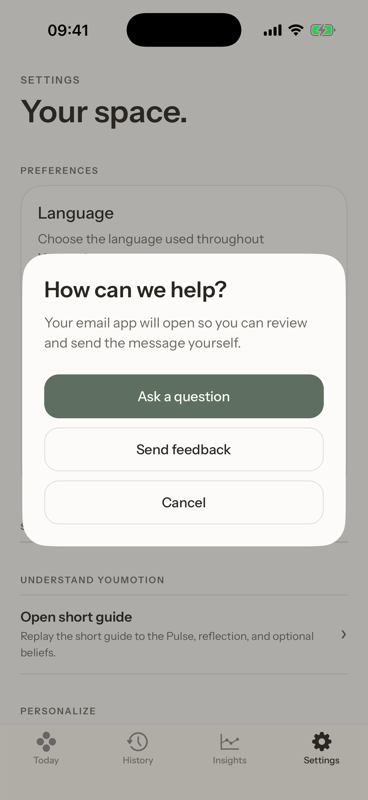
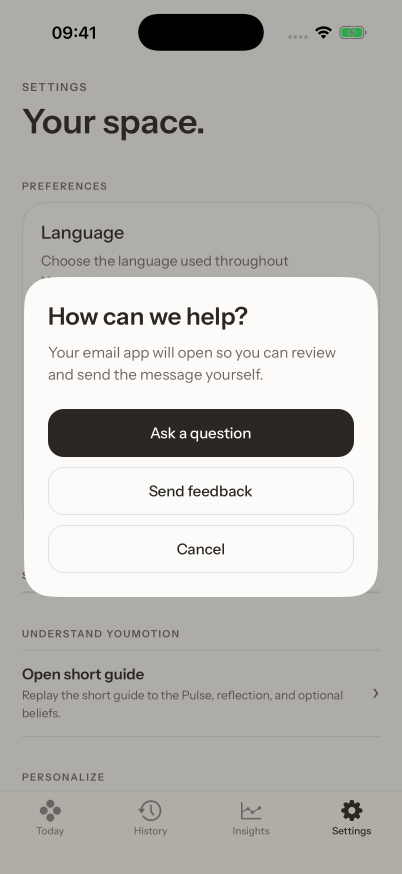
fix: unify primary action colors

diff --git a/src/features/reminders/ui/leitsatz-reminder-screen.tsx b/src/features/reminders/ui/leitsatz-reminder-screen.tsx
@@ -29,7 +29,7 @@ import {
   activeCustomBeliefStatements,
   beliefStatementForId,
 } from '@/features/check-in/domain/belief-statement';
-import { palette, type } from '@/features/check-in/ui/theme';
+import { actionColors, palette, type } from '@/features/check-in/ui/theme';
 import { useAppLocale } from '@/localization/app-locale-provider';
 import { formatWeekday } from '@/localization/date-copy';
 import { useAppNavigationActor } from '@/navigation/app-navigation.provider';
@@ -636,10 +636,10 @@ const styles = StyleSheet.create({
   statementCard: { minHeight: 150, justifyContent: 'center', backgroundColor: palette.paperRaised, borderColor: palette.hairline, borderWidth: 1, borderRadius: 24, borderCurve: 'continuous', padding: 22 },
   cardEyebrow: { fontFamily: type.semibold, color: palette.inkMuted, fontSize: 10, letterSpacing: 1.2, marginBottom: 14 },
   statement: { fontFamily: type.medium, color: palette.ink, fontSize: 23, lineHeight: 32, textAlign: 'center' },
-  action: { minHeight: 54, alignItems: 'center', justifyContent: 'center', borderRadius: 18, borderCurve: 'continuous', backgroundColor: palette.ink, paddingHorizontal: 18 },
+  action: { minHeight: 54, alignItems: 'center', justifyContent: 'center', borderRadius: 18, borderCurve: 'continuous', backgroundColor: actionColors.primaryBackground, paddingHorizontal: 18 },
   actionSecondary: { backgroundColor: 'transparent', borderWidth: 1, borderColor: palette.hairline },
   actionDisabled: { opacity: 0.38 },
-  actionText: { fontFamily: type.semibold, color: '#FFFFFF', fontSize: 15 },
+  actionText: { fontFamily: type.semibold, color: actionColors.primaryForeground, fontSize: 15 },
   actionTextSecondary: { color: palette.ink },
   scheduleCard: { minHeight: 80, justifyContent: 'center', borderWidth: 1, borderColor: palette.hairline, borderRadius: 20, borderCurve: 'continuous', padding: 18 },
   scheduleTitle: { fontFamily: type.semibold, color: palette.ink, fontSize: 17, marginBottom: 5 },

diff --git a/src/features/check-in/ui/reflection-screen.tsx b/src/features/check-in/ui/reflection-screen.tsx
@@ -79,7 +79,7 @@ import { CheckInProgressHeader } from './check-in-progress';
 import { PersonalBeliefCreateButton } from './personal-belief-create-button';
 import { beginReflectionInputSession } from './reflection-input-session';
 import { reflectionResponsiveLayout } from './reflection-responsive-layout';
-import { palette, type } from './theme';
+import { actionColors, palette, type } from './theme';
 
 const _selectSnapshot = (
   snapshot: ReturnType<ReturnType<typeof useAppNavigationActor>['getSnapshot']>,
@@ -1188,7 +1188,7 @@ const styles = StyleSheet.create({
   momentTimeCancelText: { color: palette.ink, fontFamily: type.semibold, fontSize: 14 },
   momentTimeConfirm: {
     alignItems: 'center',
-    backgroundColor: palette.ink,
+    backgroundColor: actionColors.primaryBackground,
     borderCurve: 'continuous',
     borderRadius: 14,
     flex: 1.4,
@@ -1197,7 +1197,7 @@ const styles = StyleSheet.create({
     paddingHorizontal: 14,
   },
   momentTimeConfirmText: {
-    color: palette.paper,
+    color: actionColors.primaryForeground,
     fontFamily: type.semibold,
     fontSize: 14,
     textAlign: 'center',
@@ -1420,14 +1420,14 @@ const styles = StyleSheet.create({
   nextStepCopy: { color: palette.inkMuted, fontFamily: type.regular, fontSize: 12, lineHeight: 18 },
   primaryButton: {
     minHeight: 50,
-    backgroundColor: palette.ink,
+    backgroundColor: actionColors.primaryBackground,
     borderRadius: 16,
     alignItems: 'center',
     justifyContent: 'center',
     paddingHorizontal: 16,
   },
   standalonePrimaryButton: { marginTop: 14 },
-  primaryText: { fontFamily: type.semibold, color: '#FFFFFF', fontSize: 14 },
+  primaryText: { fontFamily: type.semibold, color: actionColors.primaryForeground, fontSize: 14 },
   secondaryButton: {
     minHeight: 50,
     paddingHorizontal: 20,

diff --git a/src/features/settings/ui/belief-library-screen.tsx b/src/features/settings/ui/belief-library-screen.tsx
@@ -31,7 +31,7 @@ import {
 } from '@/features/check-in/ui/belief-card-label';
 import { GuidingBeliefWritingHelp } from '@/features/check-in/ui/guiding-belief-writing-help';
 import { PersonalBeliefCreateButton } from '@/features/check-in/ui/personal-belief-create-button';
-import { palette, type } from '@/features/check-in/ui/theme';
+import { actionColors, palette, type } from '@/features/check-in/ui/theme';
 import { useAppNavigationActor } from '@/navigation/app-navigation.provider';
 import { confirmBeliefRemoval } from './belief-library-removal';
 
@@ -429,9 +429,9 @@ const styles = StyleSheet.create({
     alignItems: 'center',
     justifyContent: 'center',
     borderRadius: 14,
-    backgroundColor: palette.ink,
+    backgroundColor: actionColors.primaryBackground,
   },
-  editText: { fontFamily: type.semibold, color: '#FFFFFF', fontSize: 14 },
+  editText: { fontFamily: type.semibold, color: actionColors.primaryForeground, fontSize: 14 },
   removeButton: {
     minHeight: 44,
     flex: 1,
@@ -489,8 +489,8 @@ const styles = StyleSheet.create({
     alignItems: 'center',
     justifyContent: 'center',
     borderRadius: 16,
-    backgroundColor: palette.ink,
+    backgroundColor: actionColors.primaryBackground,
   },
   saveButtonDisabled: { opacity: 0.45 },
-  saveText: { fontFamily: type.semibold, color: '#FFFFFF', fontSize: 15 },
+  saveText: { fontFamily: type.semibold, color: actionColors.primaryForeground, fontSize: 15 },
 });

diff --git a/src/features/reminders/ui/reminder-settings-screen.tsx b/src/features/reminders/ui/reminder-settings-screen.tsx
@@ -10,7 +10,7 @@ import {
   REMINDER_TARGET_KINDS,
 } from '@/constants';
 import { AppBackButton } from '@/components/ui/app-back-button';
-import { palette, type } from '@/features/check-in/ui/theme';
+import { actionColors, palette, type } from '@/features/check-in/ui/theme';
 import { useAppLocale } from '@/localization/app-locale-provider';
 import { formatWeekday } from '@/localization/date-copy';
 import { useAppNavigationActor } from '@/navigation/app-navigation.provider';
@@ -206,6 +206,6 @@ const styles = StyleSheet.create({
   errorCard: { alignItems: 'flex-start', gap: 8 },
   retryAction: { minHeight: 40, justifyContent: 'center', borderWidth: 1, borderColor: palette.hairline, borderRadius: 14, borderCurve: 'continuous', paddingHorizontal: 14 },
   retryActionText: { fontFamily: type.semibold, color: palette.ink, fontSize: 13 },
-  action: { minHeight: 54, alignItems: 'center', justifyContent: 'center', borderRadius: 18, borderCurve: 'continuous', backgroundColor: palette.ink, paddingHorizontal: 18 },
-  actionText: { fontFamily: type.semibold, color: '#FFFFFF', fontSize: 15 },
+  action: { minHeight: 54, alignItems: 'center', justifyContent: 'center', borderRadius: 18, borderCurve: 'continuous', backgroundColor: actionColors.primaryBackground, paddingHorizontal: 18 },
+  actionText: { fontFamily: type.semibold, color: actionColors.primaryForeground, fontSize: 15 },
 });

diff --git a/src/features/data-safety/ui/data-safety-controls.tsx b/src/features/data-safety/ui/data-safety-controls.tsx
@@ -7,7 +7,7 @@ import {
   DATA_SAFETY_STATES,
   NAVIGATION_STATES,
 } from '@/constants';
-import { palette, type } from '@/features/check-in/ui/theme';
+import { actionColors, palette, type } from '@/features/check-in/ui/theme';
 import { formatHistoryDate } from '@/localization/date-copy';
 import {
   type AppNavigationActor,
@@ -310,7 +310,7 @@ const styles = StyleSheet.create({
   confirmationActions: { flexDirection: 'row', gap: 10, marginTop: 16 },
   secondaryButton: { flex: 1, minHeight: 44, alignItems: 'center', justifyContent: 'center', borderColor: palette.hairline, borderRadius: 14, borderWidth: 1 },
   secondaryButtonText: { fontFamily: type.semibold, color: palette.ink, fontSize: 14 },
-  primaryButton: { flex: 1, minHeight: 44, alignItems: 'center', justifyContent: 'center', backgroundColor: palette.ink, borderRadius: 14 },
+  primaryButton: { flex: 1, minHeight: 44, alignItems: 'center', justifyContent: 'center', backgroundColor: actionColors.primaryBackground, borderRadius: 14 },
   destructiveButton: { flex: 1, minHeight: 44, alignItems: 'center', justifyContent: 'center', backgroundColor: '#8A3D35', borderRadius: 14 },
-  primaryButtonText: { fontFamily: type.semibold, color: '#FFFFFF', fontSize: 14 },
+  primaryButtonText: { fontFamily: type.semibold, color: actionColors.primaryForeground, fontSize: 14 },
 });

diff --git a/src/features/check-in/ui/success-screen.tsx b/src/features/check-in/ui/success-screen.tsx
@@ -18,7 +18,7 @@ import {
 import { useAppNavigationActor } from '@/navigation/app-navigation.provider';
 import { savedCheckInCopy } from './emotion-copy';
 import { guidingBeliefSystemText } from './belief-system-copy';
-import { palette, type } from './theme';
+import { actionColors, palette, type } from './theme';
 
 const _selectContext = (
   snapshot: ReturnType<ReturnType<typeof useAppNavigationActor>['getSnapshot']>,
@@ -215,6 +215,6 @@ const styles = StyleSheet.create({
     paddingHorizontal: 18,
   },
   reminderButtonText: { fontFamily: type.semibold, color: palette.moss, fontSize: 14 },
-  button: { minHeight: 50, backgroundColor: palette.ink, borderRadius: 16, alignItems: 'center', justifyContent: 'center', paddingHorizontal: 28, marginTop: 28 },
-  buttonText: { fontFamily: type.semibold, color: '#FFFFFF', fontSize: 14 },
+  button: { minHeight: 50, backgroundColor: actionColors.primaryBackground, borderRadius: 16, alignItems: 'center', justifyContent: 'center', paddingHorizontal: 28, marginTop: 28 },
+  buttonText: { fontFamily: type.semibold, color: actionColors.primaryForeground, fontSize: 14 },
 });

diff --git a/src/features/feedback/ui/feedback-screen.tsx b/src/features/feedback/ui/feedback-screen.tsx
@@ -18,7 +18,7 @@ import {
   FEEDBACK_KINDS,
   FEEDBACK_STATES,
 } from '@/constants';
-import { palette, type } from '@/features/check-in/ui/theme';
+import { actionColors, palette, type } from '@/features/check-in/ui/theme';
 import { feedbackMachine } from '../application/feedback.machine';
 
 type FeedbackActor = ReturnType<typeof useMachine<typeof feedbackMachine>>[2];
@@ -293,9 +293,12 @@ const styles = StyleSheet.create({
     borderWidth: 1,
     paddingHorizontal: 16,
   },
-  primaryAction: { backgroundColor: palette.moss, borderColor: palette.moss },
+  primaryAction: {
+    backgroundColor: actionColors.primaryBackground,
+    borderColor: actionColors.primaryBackground,
+  },
   actionText: { color: palette.ink, fontFamily: type.medium, fontSize: 15 },
-  primaryActionText: { color: palette.paperRaised },
+  primaryActionText: { color: actionColors.primaryForeground },
   progress: { alignItems: 'center', gap: 14, paddingVertical: 14 },
   progressText: { color: palette.ink, fontFamily: type.medium, fontSize: 15 },
 });

diff --git a/src/features/onboarding/ui/onboarding-step-shell.tsx b/src/features/onboarding/ui/onboarding-step-shell.tsx
@@ -21,7 +21,7 @@ import {
   MOTION_DURATION,
 } from '@/constants';
 import { onboardingStepNumber } from '../application/onboarding-progress';
-import { palette, type } from '@/features/check-in/ui/theme';
+import { actionColors, palette, type } from '@/features/check-in/ui/theme';
 
 type OnboardingStep = typeof ONBOARDING_STATES[keyof typeof ONBOARDING_STATES];
 
@@ -238,14 +238,14 @@ const styles = StyleSheet.create({
     justifyContent: 'center',
     borderRadius: 18,
     borderCurve: 'continuous',
-    backgroundColor: palette.ink,
+    backgroundColor: actionColors.primaryBackground,
     paddingHorizontal: 20,
   },
   primaryButtonDisabled: {
     opacity: 0.42,
   },
   primaryButtonText: {
-    color: '#FFFFFF',
+    color: actionColors.primaryForeground,
     fontFamily: type.semibold,
     fontSize: 16,
   },

diff --git a/src/features/check-in/ui/guiding-belief-screen.tsx b/src/features/check-in/ui/guiding-belief-screen.tsx
@@ -35,7 +35,7 @@ import {
 } from './belief-card-label';
 import { CheckInProgressHeader } from './check-in-progress';
 import { GuidingBeliefWritingHelp } from './guiding-belief-writing-help';
-import { palette, type } from './theme';
+import { actionColors, palette, type } from './theme';
 
 type NavigationSnapshot = ReturnType<
   ReturnType<typeof useAppNavigationActor>['getSnapshot']
@@ -389,12 +389,12 @@ const styles = StyleSheet.create({
     justifyContent: 'center',
     borderRadius: 18,
     borderCurve: 'continuous',
-    backgroundColor: palette.ink,
+    backgroundColor: actionColors.primaryBackground,
     paddingHorizontal: 12,
   },
   primaryText: {
     fontFamily: type.semibold,
-    color: '#FFFFFF',
+    color: actionColors.primaryForeground,
     fontSize: 13,
     textAlign: 'center',
   },

diff --git a/src/components/ui/confirmed-picker-modal.tsx b/src/components/ui/confirmed-picker-modal.tsx
@@ -2,7 +2,7 @@ import type { ReactNode } from 'react';
 import { Modal, StyleSheet, Text, View } from 'react-native';
 import { PressableScale } from 'pressto';
 
-import { palette, type } from '@/features/check-in/ui/theme';
+import { actionColors, palette, type } from '@/features/check-in/ui/theme';
 
 export function ConfirmedPickerModal({
   children,
@@ -76,7 +76,7 @@ const styles = StyleSheet.create({
     justifyContent: 'center',
     borderRadius: 16,
     borderCurve: 'continuous',
-    backgroundColor: palette.ink,
+    backgroundColor: actionColors.primaryBackground,
   },
-  doneText: { color: '#FFFFFF', fontFamily: type.semibold, fontSize: 16 },
+  doneText: { color: actionColors.primaryForeground, fontFamily: type.semibold, fontSize: 16 },
 });

diff --git a/src/features/check-in/ui/theme.ts b/src/features/check-in/ui/theme.ts
@@ -12,6 +12,11 @@ export const palette = Object.freeze({
   danger: '#9D4E42',
 });
 
+export const actionColors = Object.freeze({
+  primaryBackground: palette.ink,
+  primaryForeground: '#FFFFFF',
+});
+
 export const type = APP_TYPE;
 
 export const textSize = Object.freeze({
